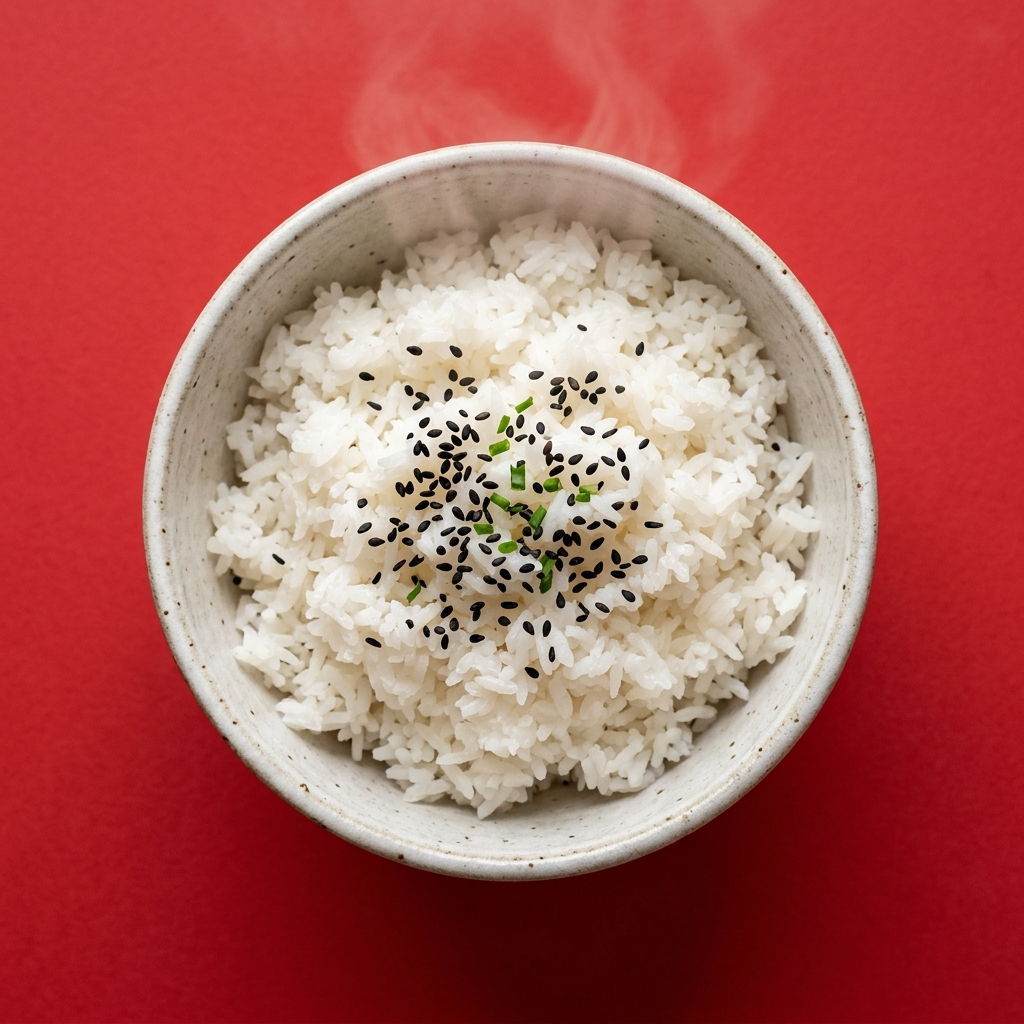
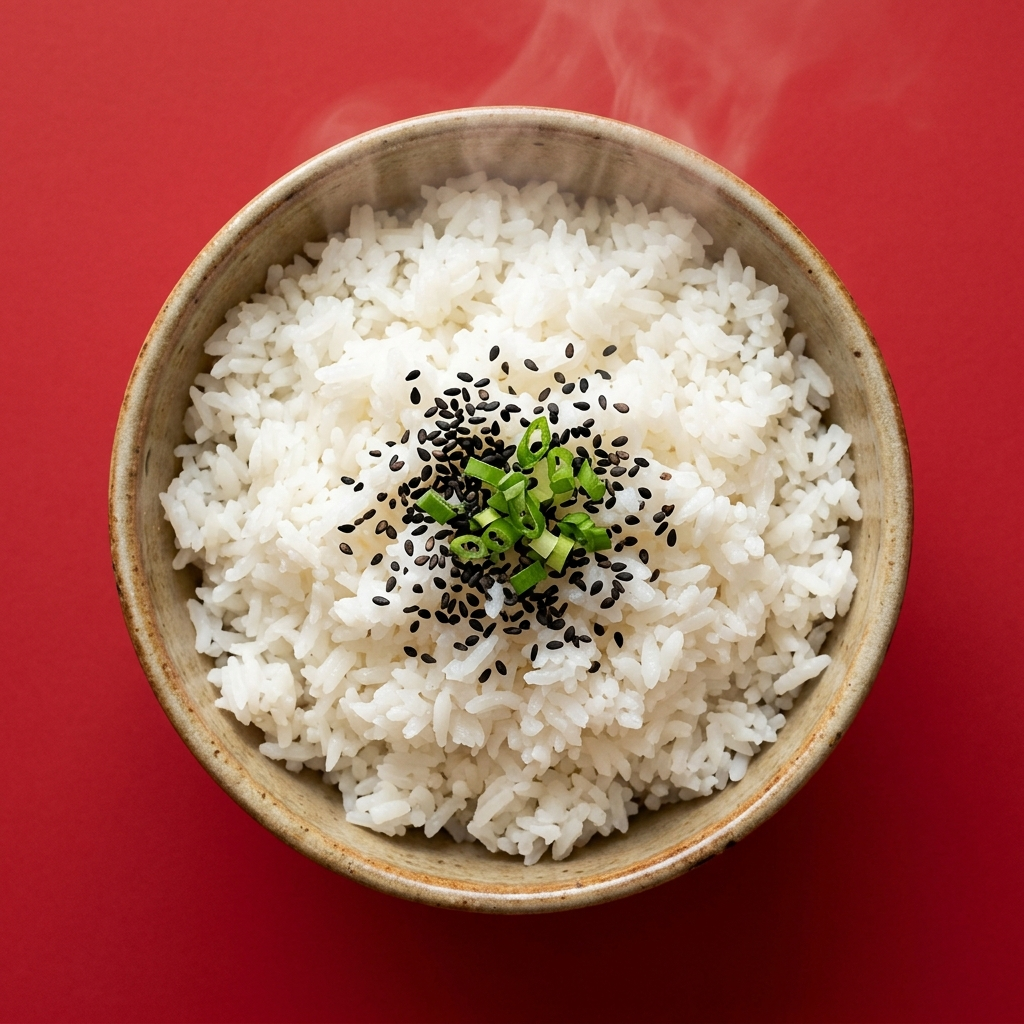
feat(assets): give each modifier option its own image, fix regex shadowing
Add 12 generated images (flavor soups, mini dumplings/fish balls, crab
mushroom, white fungus, fish roll, half/full steamed rice) and wire them
into both the seed script and the frontend fallback map, so options that
previously shared one picture now each have their own.

Seed the five Flavor options with imageUrl, and split the mapping chain
so specific matches win over generic ones:

- Rice Noodles no longer shadowed by test("Rice") -> rice-noodles.jpg
- Pineapple Lemon Jasmine Tea no longer shadowed by test("Apple")
  (matched the "apple" inside "Pineapple") -> pineapple-tea.jpg
- Beef Tendon Ball, Kaixin Fish Ball, Crab Steak and Kiss Hot Dog split
  out of the alternations they were folded into

Verified all 40 modifier options resolve to a distinct image within their
group, with no unmatched options.

Note: beef-tendon-ball.jpg, kaixin-fish-ball.jpg, crab-steak.jpg and
hot-dog.jpg are referenced but not yet generated.

Claude-Session: https://claude.ai/code/session_01FCumnS5ucpJbpJ1TQdxsM7

diff --git a/frontend/src/features/menu/lib/food-image.ts b/frontend/src/features/menu/lib/food-image.ts
@@ -3,42 +3,47 @@ import { assetUrl } from "@/lib/api/client"
 const KNOWN_FOOD_IMAGES: Record<string, string> = {
   "diy malatang": "/food-images/diy-malatang.jpg",
   "sichuan pork dumplings": "/food-images/sichuan-dumplings.jpg",
+  "sichuan pork dumplings (5pcs)": "/food-images/sichuan-dumplings.jpg",
   "kaixin world football set": "/food-images/combo-set.jpg",
   "pineapple lemon jasmine tea": "/food-images/pineapple-tea.jpg",
   "red apple jasmine tea": "/food-images/apple-tea.jpg",
   "honey lemon kiss": "/food-images/honey-lemon.jpg",
-  "full steamed rice": "/food-images/steamed-rice.jpg",
-  "half steamed rice": "/food-images/steamed-rice.jpg",
+  "full steamed rice": "/food-images/full-steamed-rice.jpg",
+  "half steamed rice": "/food-images/half-steamed-rice.jpg",
+  "steamed rice": "/food-images/full-steamed-rice.jpg",
   "jia duo bao": "/food-images/herbal-tea.jpg",
   "chinese herbal tea": "/food-images/herbal-tea.jpg",
   "big heart lollipop": "/food-images/lollipop.jpg",
   "juicy beef ball (2pcs)": "/food-images/juicy-beef-balls.jpg",
-  "beef tendon ball": "/food-images/juicy-beef-balls.jpg",
+  "beef tendon ball": "/food-images/beef-tendon-ball.jpg",
   "fish roe meatball": "/food-images/fish-roe-meatballs.jpg",
-  "mini juicy fish ball": "/food-images/fish-roe-meatballs.jpg",
-  "kaixin fish ball": "/food-images/fish-roe-meatballs.jpg",
+  "mini juicy fish ball": "/food-images/mini-fish-balls.jpg",
+  "kaixin fish ball": "/food-images/kaixin-fish-ball.jpg",
   "usa beef": "/food-images/usa-beef.jpg",
   "tender chicken": "/food-images/tender-chicken.jpg",
   "prawn dumplings": "/food-images/prawn-dumplings.jpg",
-  "mini dumplings": "/food-images/prawn-dumplings.jpg",
+  "mini dumplings": "/food-images/mini-dumplings.jpg",
   "kaixin dumplings": "/food-images/sichuan-dumplings.jpg",
   "deep fried tofu": "/food-images/fried-tofu.jpg",
   "fried tofu": "/food-images/fried-tofu.jpg",
   "lotus roots": "/food-images/lotus-roots.jpg",
   "needle mushroom": "/food-images/needle-mushroom.jpg",
-  "crab mushroom": "/food-images/needle-mushroom.jpg",
+  "crab mushroom": "/food-images/crab-mushroom.jpg",
   "broccoli": "/food-images/broccoli.jpg",
   "crab stick": "/food-images/crab-stick.jpg",
-  "crab steak": "/food-images/crab-stick.jpg",
+  "crab steak": "/food-images/crab-steak.jpg",
   "bacon (4pcs)": "/food-images/bacon.jpg",
   "bacon": "/food-images/bacon.jpg",
   "pork flower sausage": "/food-images/flower-sausage.jpg",
-  "kiss hot dog": "/food-images/flower-sausage.jpg",
+  "kiss hot dog": "/food-images/hot-dog.jpg",
   "handmade noodles": "/food-images/handmade-noodles.jpg",
   "soft tofu": "/food-images/soft-tofu.jpg",
   "black fungus": "/food-images/black-fungus.jpg",
-  "white fungus": "/food-images/black-fungus.jpg",
+  "white fungus": "/food-images/white-fungus.jpg",
+  "snow fungus": "/food-images/white-fungus.jpg",
   "fish cake": "/food-images/fish-cake.jpg",
+  "fish roll meatball": "/food-images/fish-roll-meatball.jpg",
+  "fish roll": "/food-images/fish-roll-meatball.jpg",
   "white stomach": "/food-images/white-stomach.jpg",
   "duck blood": "/food-images/duck-blood.jpg",
   "bamboo shoot": "/food-images/bamboo-shoot.jpg",
@@ -54,6 +59,13 @@ const KNOWN_FOOD_IMAGES: Record<string, string> = {
   "cambodia cola": "/food-images/cambodia-cola.jpg",
   "coca-cola classic": "/food-images/coca-cola.jpg",
   "coca-cola": "/food-images/coca-cola.jpg",
+  "dry malatang": "/food-images/dry-malatang.jpg",
+  "sichuan spicy soup": "/food-images/sichuan-spicy-soup.jpg",
+  "milky spicy soup": "/food-images/milky-spicy-soup.jpg",
+  "chicken broth soup": "/food-images/chicken-broth-soup.jpg",
+  "chicken broth": "/food-images/chicken-broth-soup.jpg",
+  "mushroom soup": "/food-images/mushroom-soup.jpg",
+  "mushroom broth": "/food-images/mushroom-soup.jpg",
 }
 
 /**
